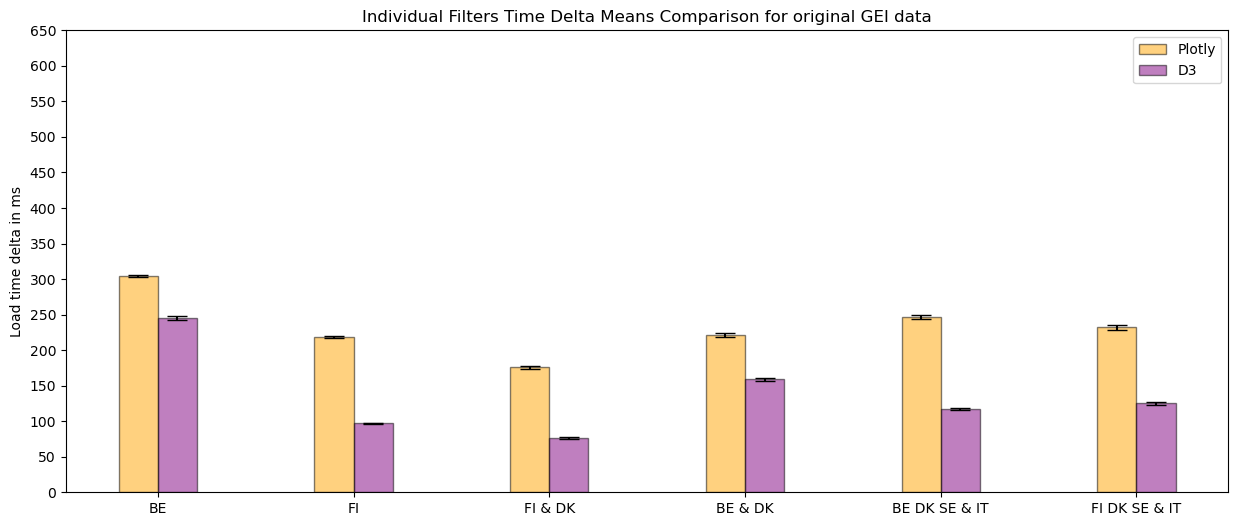
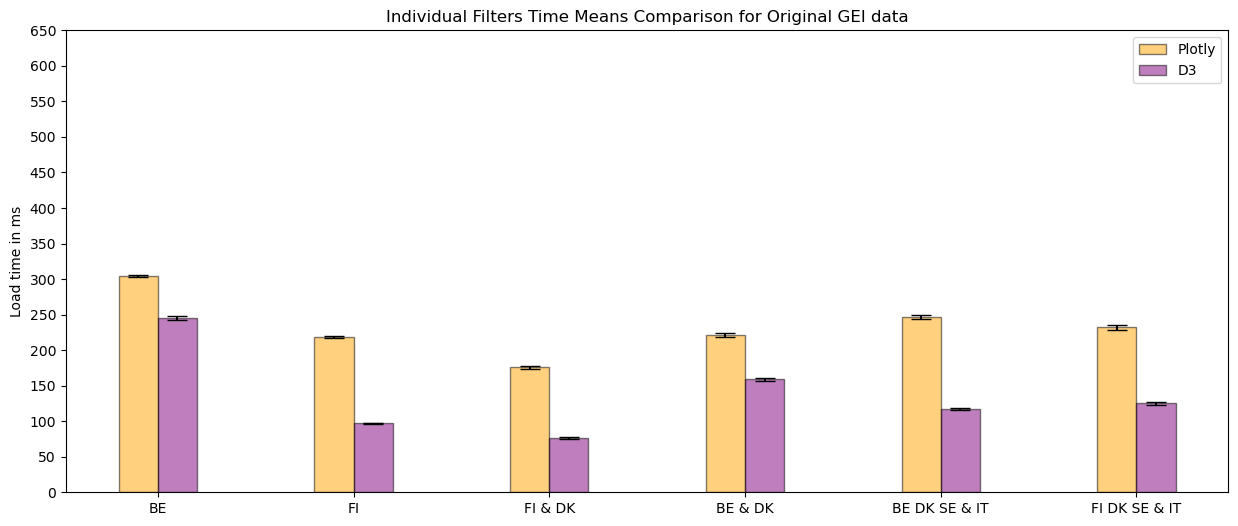
working on removing the word "delta" from all other graphs as well

Changed region(s): [[0.3069, 0.0, 0.7674, 0.0608], [0.0, 0.365, 0.0307, 0.6388]]

diff --git a/experimentData/run2-1000/dataScripts/individualfiltersCI.py b/experimentData/run2-1000/dataScripts/individualfiltersCI.py
@@ -160,10 +160,10 @@ plt.bar(barsOrder+0.1, D3BarsData, color="purple", edgecolor='black', width=barW
 # [['BE'], ['FI'], ['FI', 'DK'], ['BE', 'DK'], ['BE', 'DK', 'SE', 'IT'], ['FI', 'DK', 'SE', 'IT']]
 # 'BE, FI, FI & DK, BE & DK, BE DK SE & IT, FI DK SE & IT']
 
-plt.ylabel('Load time delta in ms')
+plt.ylabel('Load time in ms')
 plt.yticks(range(0, 700, 50))
 plt.xticks(range(6), ['BE','FI','FI & DK','BE & DK','BE DK SE & IT','FI DK SE & IT'])
-plt.title('Individual Filters Time Delta Means Comparison for expanded GEI data')
+plt.title('Individual Filters Time Means Comparison for Expanded GEI data')
 plt.legend(["Plotly", "D3"]) 
 plt.grid(False)
 # bbox tight removes white margin on the image
